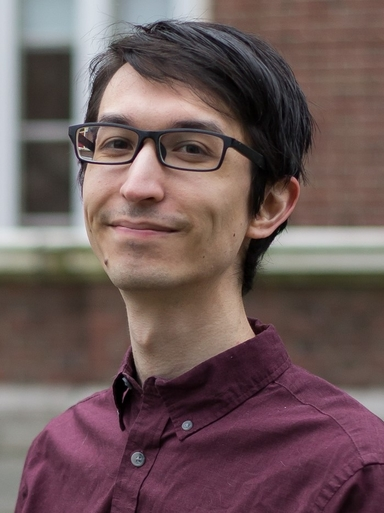
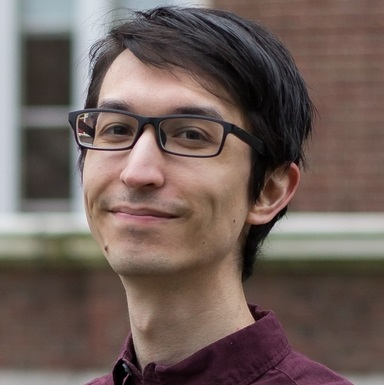
Build (11cfea1): square-ify + tidy-ify
Making everything square and adding in pictures!

diff --git a/people.html b/people.html
@@ -1,1 +1,1 @@
-<!doctype html><html class="no-js" lang="en" data-theme="dark"><head><meta charset="utf-8"/><meta http-equiv="x-ua-compatible" content="ie=edge"/><meta name="viewport" content="width=device-width,initial-scale=1"/><title>Astrostat@UofT | People</title><base href="/"><link href="/assets/index.css" rel="stylesheet"></head><body><a href="#body" class="show-for-sr">Skip to main content</a><div id="topper"><svg id="topper-gradient" width="100%" height="100%" xmlns="http://www.w3.org/2000/svg" aria-hidden="true"><defs><pattern id="patt" width="4" height="4" patternUnits="userSpaceOnUse"><rect x="0" y="0" width="4" height="2" fill="#aaaaaa"></rect><rect x="0" y="4" width="4" height="2" fill="#555555"></rect></pattern><linearGradient id="color-gradient"><stop id="topper-gradient-stop-1" offset="0%" stop-opacity="100%"></stop><stop id="topper-gradient-stop-2" offset="25%" stop-opacity="100%"></stop><stop id="topper-gradient-stop-3" offset="100%" stop-opacity="100%"></stop></linearGradient><linearGradient id="horizontal-gradient"><stop offset="0%" stop-color="#000000"></stop><stop offset="5%" stop-color="#ffffff"></stop><stop offset="95%" stop-color="#ffffff"></stop><stop offset="100%" stop-color="#000000"></stop></linearGradient><linearGradient id="vertical-gradient" gradientTransform="rotate(90)"><stop offset="0%" stop-color="#000000"></stop><stop offset="5%" stop-color="#ffffff"></stop><stop offset="95%" stop-color="#ffffff"></stop><stop offset="100%" stop-color="#000000"></stop></linearGradient><mask id="stripes"><rect x="0" y="0" width="100%" height="100%" fill="url(#patt)"></rect></mask><mask id="horizontal-fade"><rect x="0" y="0" width="100%" height="100%" fill="url(#horizontal-gradient)"></rect></mask><mask id="vertical-fade"><rect x="0" y="0" width="100%" height="100%" fill="url(#vertical-gradient)"></rect></mask></defs><rect fill="url(#color-gradient)" width="100%" height="100%" mask="url(#vertical-fade) intersect, url(#horizontal-fade) intersect, url(#stripes)"></rect></svg> <svg id="topper-text" viewBox="0 0 1200 300" preserveAspectRatio="xMaxYMin meet" xmlns="http://www.w3.org/2000/svg" role="banner"><text class="h1" x="50%" y="40%" dominant-baseline="bottom" text-anchor="middle">Astrostat@UofT</text><text class="h2" x="50%" y="65%" dominant-baseline="bottom" text-anchor="middle">Astrostatistics Research Team</text><text class="h3" x="50%" y="85%" dominant-baseline="bottom" text-anchor="middle">University of Toronto</text></svg></div><div class="grid-container"><div class="grid-x grid-margin-x"><div id="sidebar" class="cell medium-2"><div class="sticky" data-sticky data-top-anchor="topper:bottom"><div id="nav"><label for="nav-drilldown">Navigate</label><ul id="nav-drilldown" class="vertical menu drilldown" data-drilldown data-auto-height="true" data-back-button="&lt;li class&#x3D;&quot;js-drilldown-back&quot;&gt;&lt;a tabindex&#x3D;&quot;0&quot;&gt;&lt;i&gt;(back)&lt;/i&gt;&lt;/a&gt;&lt;/li&gt;"><li><a href="/">Home</a></li><li><a href="/people.html">People</a></li><li><a href="/research.html">Research</a></li></ul></div><ul id="controls"><li><label id="dark-mode-label" for="dark-mode-switch">Dark mode</label><div class="switch" id="dark-mode-control"><input class="switch-input" id="dark-mode-switch" aria-labelledby="dark-mode-label" type="checkbox"> <label class="switch-paddle" for="dark-mode-switch"></label></div></li></ul></div></div><div class="cell medium-10 grid-x"><div class="cell small-12"><div id="breadcrumbs-wrapper" class="sticky" data-sticky data-top-anchor="topper:bottom" data-margin-top="0" data-margin-bottom="0"><ul class="breadcrumbs"><li><a href="/">Home</a></li><li><span class="show-for-sr">Current: </span>People</li></ul></div></div><div id="body"><section class="small-12"><h1>People</h1><p>The ART is made up of researchers across astrophysics, statistics, and computer science spanning a wide range of career stages. More information about individual members of the group can be found below.</p><br><h2>Faculty</h2><div class="grid-x grid-margin-x small-up-1 medium-up-2"><div class="cell"><div class="card"><img class="person-thumbnail" src="/static/GwendolynEadie_2018.jpg" alt="A picture of Gwendolyn Eadie."><div class="card-section"><span class="h3">Gwendolyn Eadie</span><p>Gwen is an Assistant Professor of Astrostatistics, jointly appointed between the David A. Dunlap Department of Astronomy & Astrophysics (51%) and the Department of Statistical Sciences (49%). Her research interests includes hierarchical Bayesian inference, generalized linear models, spatial point processes, and time series analysis for the study of the Milky Way Galaxy, ultra-diffuse galaxies, star clusters and globular clusters, stars and stellar flares, and fast radio bursts. <a href="https://gweneadie.com/">Personal Website</a></p></div></div></div><div class="cell"><div class="card"><img class="person-thumbnail" src="/static/NSERC_Speagle_Joshua_thumbnail.jpg" alt="A picture of Joshua Speagle."><div class="card-section"><span class="h3">Joshua S. Speagle (沈佳士)</span><p>Josh is an Assistant Professor of Astrostatistics, jointly appointed between the Department of Statistical Sciences (51%) and the David A. Dunlap Department of Astronomy & Astrophysics (49%). His work focuses on using a combination of astronomy, statistics, data science, and AI to analze massive datasets containing billions of stars and galaxies to understand how galaxies like our own Milky Way form, behave, and evolve over time. <a href="https://joshspeagle.com/">Personal Website</a></p></div></div></div></div><br><h2>Postdoctoral Researchers</h2><div class="grid-x grid-margin-x small-up-1 medium-up-2"><div class="cell"><div class="card"><img class="person-thumbnail"/><div class="card-section"><span class="h3">Antonio Herrera Martin</span><p>Bio here...</p></div></div></div><div class="cell"><div class="card"><img class="person-thumbnail"/><div class="card-section"><span class="h3">Jacqueline Antwi-Danso</span><p>Bio here...</p></div></div></div><div class="cell"><div class="card"><img class="person-thumbnail"/><div class="card-section"><span class="h3">Michael Walmsley</span><p>Bio here...</p></div></div></div><div class="cell"><div class="card"><img class="person-thumbnail"/><div class="card-section"><span class="h3">Tanveer Karim</span><p>Tanveer Karim is an Arts & Sciences Postdoctoral Fellow at the University of Toronto and a member of the Dark Energy Spectroscopic Instrument (DESI) collaboration and the Dark Energy Science Collaboration (DESC). His current research interest is developing frameworks to constrain cosmological models by cross-correlating multiple surveys and improving interpretability of the constraints to address various cosmological tensions. Previously, he has also extensively worked on target selection of emission-line galaxies for DESI, mitigation of observational systematics, as well as projects pertaining to the Milky Way and analysis of stellar rotation periods. Outside of research, Tanveer loves to learn languages, play board games and read books. <a href="https://tanveerkarim.com/">Personal Website</a></p></div></div></div><div class="cell"><div class="card"><img class="person-thumbnail"/><div class="card-section"><span class="h3">Kevin McKinnon</span><p>Kevin is a CITA Postdoctoral Researcher whose research focuses predominantly on understanding how the Milky Way formed and evolved through Galactic Archeology. On the dynamics side, he is currently using hierarchical Bayesian models to combine archival Hubble Space Telescope images with Gaia data to measure significantly improved astrometry, particularly for faint stars. For stellar parameters and chemistry, Kevin is working with the Sloan Digital Sky Survey V (SDSS-V) to help improve the APOGEE spectral reduction and abundance pipelines for the Milky Way Mapper program.</p></div></div></div></div><br><h2>Graduate Students</h2><div class="grid-x grid-margin-x small-up-1 medium-up-2"><div class="cell"><div class="card"><img class="person-thumbnail"/><div class="card-section"><span class="h3">Amanda Cook</span><p>Amanda is a Ph.D. candidate in Astronomy and Astrophysics at the University of Toronto, supervised by Profs. Bryan Gaensler, Gwen Eadie, and Paul Scholz, and she is a member of the CHIME/FRB Collaboration. Amanda develops and employs statistical methods to solve astrophysics problems related to fast radio bursts, high-energy astrophysics, and circumgalactic media. Prior to entering graduate school, she received an honors mathematics and physics degree from McGill University, and held a variety of summer research positions including at NASA JPL and the University of Kyoto. <a href="https://www.astro.utoronto.ca/~cook/">Personal Website</a></p></div></div></div><div class="cell"><div class="card"><img class="person-thumbnail"/><div class="card-section"><span class="h3">David Li</span><p>Bio here...</p></div></div></div><div class="cell"><div class="card"><img class="person-thumbnail"/><div class="card-section"><span class="h3">Sam Berek</span><p>Bio here...</p></div></div></div><div class="cell"><div class="card"><img class="person-thumbnail"/><div class="card-section"><span class="h3">Mairead Heiger</span><p>Bio here...</p></div></div></div><div class="cell"><div class="card"><img class="person-thumbnail"/><div class="card-section"><span class="h3">Anika Slizewski</span><p>Anika is a second-year graduate student at the University of Toronto who works with Gwen Eadie on improving statistical methods of estimating masses of astronomical systems. They are interested in uncertainty analysis and have done work with outlier detection and dimensionality reduction of multiwavelength image data. Anika’s long-term goal is to develop a consistent and accurate way to combine data from multiple types of populations to estimate properties of the Galaxy.</p></div></div></div><div class="cell"><div class="card"><img class="person-thumbnail"/><div class="card-section"><span class="h3">Alex Laroche</span><p>Alex is a second year graduate student in the David A. Dunlap Department of Astronomy & Astrophysics co-supervised by Josh Speagle and Maria Drout. His research focuses on a combination of machine learning and stellar evolution. Specifically, he develops data-driven models to discover 'needles in a haystack': new, rare stellar populations in large-scale surveys. Subsequently, he attempts to understand the nature of these rare populations through a combination of follow-up observations and stellar evolution models. On the machine learning side, he has developed a purely data-driven model for low-resolution Gaia BP/RP spectra based on variational-autoencoders. On the stellar evolution side, he is focused on binary-stripped helium stars and carbon-enhanced metal poor stars. <a href="https://alexlaroche7.github.io/">Personal Website</a></p></div></div></div><div class="cell"><div class="card"><img class="person-thumbnail"/><div class="card-section"><span class="h3">Phil Van-Lane</span><p>Phil is a 2nd year PhD student in Astronomy & Astrophysics co-supervised by Drs. Eadie and Speagle, and Dr. Ryan Cloutier from McMaster University. His research focuses on leveraging machine learning and statistical methods to develop stellar dating methods using rotation and magnetic activity data, with a focus on M dwarfs. His long-term goal is to build a catalogue of M dwarf ages, and use these constraints to inform exoplanet evolutionary analyses. He previously completed his BSc at University of Waterloo in Earth Sciences with a Geophysics specialization, then worked in engineering consulting, software development, data engineering, and product management roles for several years before beginning his PhD in Fall 2022.</p></div></div></div><div class="cell"><div class="card"><img class="person-thumbnail"/><div class="card-section"><span class="h3">Maggie Zhai</span><p>Maggie is a first-year PhD student in the Department of Statistical Sciences is co-advised by Professors Gwendolyn Eadie and Joshua Speagle. Her research broadly focuses on citizen science projects to determine how to improve classification accuracy through volunteer user input, and is interested in using these methods to improve image classification accuracy within Galaxy Zoo. Prior to UofT, she completed her MS in Statistics from San Diego State University and BS in Mathematics from UC San Diego.</p></div></div></div><div class="cell"><div class="card"><img class="person-thumbnail"/><div class="card-section"><span class="h3">Rodrigo Barradas Herrera</span><p>Bio here...</p></div></div></div></div><br><h2>ART Associates</h2><div class="grid-x grid-margin-x small-up-1 medium-up-2"><div class="cell"><div class="card"><img class="person-thumbnail"/><div class="card-section"><span class="h3">Lerato Sebokolodi</span><p>Bio here...</p></div></div></div><div class="cell"><div class="card"><img class="person-thumbnail"/><div class="card-section"><span class="h3">Huanqing Chen</span><p>Bio here...</p></div></div></div><div class="cell"><div class="card"><img class="person-thumbnail"/><div class="card-section"><span class="h3">Marta Reina-Campos</span><p>Bio here...</p></div></div></div><div class="cell"><div class="card"><img class="person-thumbnail"/><div class="card-section"><span class="h3">Ioana Zelko</span><p>Bio here...</p></div></div></div><div class="cell"><div class="card"><img class="person-thumbnail"/><div class="card-section"><span class="h3">Claire Ye</span><p>Bio here...</p></div></div></div><div class="cell"><div class="card"><img class="person-thumbnail"/><div class="card-section"><span class="h3">Steffani Grondin</span><p>Bio here...</p></div></div></div><div class="cell"><div class="card"><img class="person-thumbnail"/><div class="card-section"><span class="h3">Alicia Savelli</span><p>Bio here...</p></div></div></div></div><br><h2>Additional Members</h2><ul><li>Yihan (Christine) Wang</li><li>Qianyu (Rita) Fan</li><li>Matt Kustec</li><li>Max Zabrodski</li><li>Hannah Guo</li><li>Belle Pensamiento</li></ul><h2>Alumni</h2><div class="grid-x grid-margin-x small-up-1 medium-up-2"><div class="cell"><div class="card"><img class="person-thumbnail"/><div class="card-section"><span class="h3">Aarya Patil</span><p>Bio here...</p></div></div></div></div></section></div></div></div></div><script defer="defer" src="/assets/index.bundle.js"></script></body></html>
+<!doctype html><html class="no-js" lang="en" data-theme="dark"><head><meta charset="utf-8"/><meta http-equiv="x-ua-compatible" content="ie=edge"/><meta name="viewport" content="width=device-width,initial-scale=1"/><title>Astrostat@UofT | People</title><base href="/"><link href="/assets/index.css" rel="stylesheet"></head><body><a href="#body" class="show-for-sr">Skip to main content</a><div id="topper"><svg id="topper-gradient" width="100%" height="100%" xmlns="http://www.w3.org/2000/svg" aria-hidden="true"><defs><pattern id="patt" width="4" height="4" patternUnits="userSpaceOnUse"><rect x="0" y="0" width="4" height="2" fill="#aaaaaa"></rect><rect x="0" y="4" width="4" height="2" fill="#555555"></rect></pattern><linearGradient id="color-gradient"><stop id="topper-gradient-stop-1" offset="0%" stop-opacity="100%"></stop><stop id="topper-gradient-stop-2" offset="25%" stop-opacity="100%"></stop><stop id="topper-gradient-stop-3" offset="100%" stop-opacity="100%"></stop></linearGradient><linearGradient id="horizontal-gradient"><stop offset="0%" stop-color="#000000"></stop><stop offset="5%" stop-color="#ffffff"></stop><stop offset="95%" stop-color="#ffffff"></stop><stop offset="100%" stop-color="#000000"></stop></linearGradient><linearGradient id="vertical-gradient" gradientTransform="rotate(90)"><stop offset="0%" stop-color="#000000"></stop><stop offset="5%" stop-color="#ffffff"></stop><stop offset="95%" stop-color="#ffffff"></stop><stop offset="100%" stop-color="#000000"></stop></linearGradient><mask id="stripes"><rect x="0" y="0" width="100%" height="100%" fill="url(#patt)"></rect></mask><mask id="horizontal-fade"><rect x="0" y="0" width="100%" height="100%" fill="url(#horizontal-gradient)"></rect></mask><mask id="vertical-fade"><rect x="0" y="0" width="100%" height="100%" fill="url(#vertical-gradient)"></rect></mask></defs><rect fill="url(#color-gradient)" width="100%" height="100%" mask="url(#vertical-fade) intersect, url(#horizontal-fade) intersect, url(#stripes)"></rect></svg> <svg id="topper-text" viewBox="0 0 1200 300" preserveAspectRatio="xMaxYMin meet" xmlns="http://www.w3.org/2000/svg" role="banner"><text class="h1" x="50%" y="40%" dominant-baseline="bottom" text-anchor="middle">Astrostat@UofT</text><text class="h2" x="50%" y="65%" dominant-baseline="bottom" text-anchor="middle">Astrostatistics Research Team</text><text class="h3" x="50%" y="85%" dominant-baseline="bottom" text-anchor="middle">University of Toronto</text></svg></div><div class="grid-container"><div class="grid-x grid-margin-x"><div id="sidebar" class="cell medium-2"><div class="sticky" data-sticky data-top-anchor="topper:bottom"><div id="nav"><label for="nav-drilldown">Navigate</label><ul id="nav-drilldown" class="vertical menu drilldown" data-drilldown data-auto-height="true" data-back-button="&lt;li class&#x3D;&quot;js-drilldown-back&quot;&gt;&lt;a tabindex&#x3D;&quot;0&quot;&gt;&lt;i&gt;(back)&lt;/i&gt;&lt;/a&gt;&lt;/li&gt;"><li><a href="/">Home</a></li><li><a href="/people.html">People</a></li><li><a href="/research.html">Research</a></li></ul></div><ul id="controls"><li><label id="dark-mode-label" for="dark-mode-switch">Dark mode</label><div class="switch" id="dark-mode-control"><input class="switch-input" id="dark-mode-switch" aria-labelledby="dark-mode-label" type="checkbox"> <label class="switch-paddle" for="dark-mode-switch"></label></div></li></ul></div></div><div class="cell medium-10 grid-x"><div class="cell small-12"><div id="breadcrumbs-wrapper" class="sticky" data-sticky data-top-anchor="topper:bottom" data-margin-top="0" data-margin-bottom="0"><ul class="breadcrumbs"><li><a href="/">Home</a></li><li><span class="show-for-sr">Current: </span>People</li></ul></div></div><div id="body"><section class="small-12"><h1>People</h1><p>The ART is made up of researchers across astrophysics, statistics, and data science spanning a wide range of career stages. More information about individual members of the group can be found below.</p><br><h2>Faculty</h2><div class="grid-x grid-margin-x small-up-1 medium-up-2"><div class="cell"><div class="card"><img class="person-thumbnail" src="/static/GwendolynEadie_2018.jpg" alt="A picture of Gwendolyn Eadie."><div class="card-section"><span class="h3">Gwendolyn Eadie</span><p>Gwen is an Assistant Professor of Astrostatistics, jointly appointed between the <a href="https://www.astro.utoronto.ca/">David A. Dunlap Department of Astronomy & Astrophysics</a> (51%) and the <a href="https://www.statistics.utoronto.ca/">Department of Statistical Sciences</a> (49%). Her research interests includes hierarchical Bayesian inference, generalized linear models, spatial point processes, and time series analysis for the study of the Milky Way Galaxy, ultra-diffuse galaxies, star clusters and globular clusters, stars and stellar flares, and fast radio bursts. <a href="https://gweneadie.com/">Personal Website</a></p></div></div></div><div class="cell"><div class="card"><img class="person-thumbnail" src="/static/NSERC_Speagle_Joshua_thumbnail.jpg" alt="A picture of Joshua Speagle."><div class="card-section"><span class="h3">Joshua S. Speagle (沈佳士)</span><p>Josh is an Assistant Professor of Astrostatistics, jointly appointed between the Department of Statistical Sciences (51%) and the David A. Dunlap Department of Astronomy & Astrophysics (49%). His work focuses on using a combination of astronomy, statistics, data science, and artificial intelligence (AI) to analze massive datasets containing billions of stars and galaxies to understand how galaxies like our own Milky Way (and the stars within it) form, behave, and evolve over time. <a href="https://joshspeagle.com/">Personal Website</a></p></div></div></div></div><br><h2>Postdoctoral Researchers</h2><div class="grid-x grid-margin-x small-up-1 medium-up-2"><div class="cell"><div class="card"><img class="person-thumbnail" src="/static/TonyH.jpg" alt="A picture of Antonio Herrera Martin."><div class="card-section"><span class="h3">Antonio Herrera Martin</span><p>Antonio (Tony) is a postdoctoral fellow in the Department of Statistical Sciences. He works in the ART as part of a <a href="https://canssi.ca/">Canadian Statistical Sciences Institute (CANSSI)</a> Collaborative Research Team led by Professor Gwendolyn Eadie, as well as in the <a href="https://chime-experiment.ca/en">Canadian Hydrogen Intensity Mapping Experiment (CHIME)</a>, which studies fast radio bursts. His primary research interest is in the study of data analysis methods for astrophysical data. Throughout his career, Antonio has researched a wide range of topics in physics and astronomy, including the evolution of the Universe, dark matter via gravitational lensing, the inference of parameters for gravitational waves, and the search of extrasolar planets using microlensing data. He received his PhD in Physics and Astronomy from the University of Glasgow. Outside of work, he enjoys practicing pixel art, software development, and dancing. <a href="https://alfa33333.github.io/">Personal Website</a></p></div></div></div><div class="cell"><div class="card"><img class="person-thumbnail"/><div class="card-section"><span class="h3">Jacqueline Antwi-Danso</span><p>Bio here...</p></div></div></div><div class="cell"><div class="card"><img class="person-thumbnail"/><div class="card-section"><span class="h3">Michael Walmsley</span><p>Bio here...</p></div></div></div><div class="cell"><div class="card"><img class="person-thumbnail"/><div class="card-section"><span class="h3">Tanveer Karim</span><p>Tanveer is an Arts & Sciences Postdoctoral Fellow at the David A. Dunlap Department of Astronomy & Astrophysics and a member of the <a href="https://www.desi.lbl.gov/">Dark Energy Spectroscopic Instrument (DESI)</a> collaboration and the <a href="https://lsstdesc.org/">Dark Energy Science Collaboration (DESC)</a>. His current research interests include developing frameworks to constrain cosmological models by cross-correlating multiple surveys and improving interpretability of the constraints to address various cosmological tensions. Previously, he has also extensively worked on target selection of emission-line galaxies for DESI, mitigation of observational systematics, as well as projects pertaining to the Milky Way and analysis of stellar rotation periods. Outside of research, Tanveer loves to learn languages, play board games, and read books. <a href="https://tanveerkarim.com/">Personal Website</a></p></div></div></div><div class="cell"><div class="card"><img class="person-thumbnail" src="/static/KevinMcK_headshot.jpg" alt="A picture of Kevin McKinnon."><div class="card-section"><span class="h3">Kevin McKinnon</span><p>Kevin is a <a href="https://www.cita.utoronto.ca/">Canadian Institute for Theoretical Astrophysics (CITA)</a> Postdoctoral Researcher whose research focuses predominantly on understanding how the Milky Way formed and evolved through Galactic Archeology. On the dynamics side, he is currently using hierarchical Bayesian models to combine archival <a href="https://hubblesite.org/home">Hubble Space Telescope</a> images with <a href="https://www.esa.int/Science_Exploration/Space_Science/Gaia">Gaia</a> data to measure significantly improved astrometry, particularly for faint stars. For stellar parameters and chemistry, Kevin is working with the <a href="https://www.sdss.org/">Sloan Digital Sky Survey V (SDSS-V)</a> to help improve the <a href="https://www.sdss.org/instruments/apogee-spectrographs/">APOGEE</a> spectral reduction and abundance pipelines for the Milky Way Mapper program. <a href="https://www.kevinmckinnon.com/">Personal Website</a></p></div></div></div></div><br><h2>Graduate Students</h2><div class="grid-x grid-margin-x small-up-1 medium-up-2"><div class="cell"><div class="card"><img class="person-thumbnail" src="/static/AmandaCook_Profile.png" alt="A picture of Amanda Cook."><div class="card-section"><span class="h3">Amanda Cook</span><p>Amanda is a Ph.D. candidate in the David A. Dunlap Department of Astronomy & Astrophysics supervised by Profs. <a href="https://bryangaensler.net/">Bryan Gaensler</a> (UCSC), Gwen Eadie, and <a href="https://www.yorku.ca/science/profiles/faculty/paul-scholz/">Paul Scholz</a> (York University). She is also a member of the CHIME/FRB Collaboration. Amanda develops and employs statistical methods to solve astrophysics problems related to fast radio bursts, high-energy astrophysics, and circumgalactic media. Prior to entering graduate school, she received an honors mathematics and physics degree from McGill University, and held a variety of summer research positions including at NASA JPL and the University of Kyoto. <a href="https://www.astro.utoronto.ca/~cook/">Personal Website</a></p></div></div></div><div class="cell"><div class="card"><img class="person-thumbnail"/><div class="card-section"><span class="h3">David Li</span><p>Bio here...</p></div></div></div><div class="cell"><div class="card"><img class="person-thumbnail"/><div class="card-section"><span class="h3">Sam Berek</span><p>Bio here...</p></div></div></div><div class="cell"><div class="card"><img class="person-thumbnail"/><div class="card-section"><span class="h3">Mairead Heiger</span><p>Bio here...</p></div></div></div><div class="cell"><div class="card"><img class="person-thumbnail" src="/static/slizewski.jpg" alt="A picture of Anika Slizewski."><div class="card-section"><span class="h3">Anika Slizewski</span><p>Anika is a second-year graduate student at the David A. Dunlap Department of Astronomy & Astrophysics who works with Gwen Eadie on improving statistical methods of estimating masses of astronomical systems. They are interested in uncertainty analysis and have done work with outlier detection and dimensionality reduction of multiwavelength image data. Anika’s long-term goal is to develop a consistent and accurate way to combine data from multiple types of populations to estimate properties of the Galaxy.</p></div></div></div><div class="cell"><div class="card"><img class="person-thumbnail" src="/static/Alex_Headshot.png" alt="A picture of Alex Laroche."><div class="card-section"><span class="h3">Alex Laroche</span><p>Alex is a second year graduate student in the David A. Dunlap Department of Astronomy & Astrophysics co-supervised by Josh Speagle and <a href="https://www.astro.utoronto.ca/~drout/">Maria Drout</a>. His research focuses on a combination of machine learning and stellar evolution. Specifically, he develops data-driven models to discover 'needles in a haystack': new, rare stellar populations in large-scale surveys. Subsequently, he attempts to understand the nature of these rare populations through a combination of follow-up observations and stellar evolution models. On the machine learning side, he has developed a purely data-driven model for low-resolution Gaia BP/RP spectra based on variational-autoencoders. On the stellar evolution side, he is focused on binary-stripped helium stars and carbon-enhanced metal poor stars. <a href="https://alexlaroche7.github.io/">Personal Website</a></p></div></div></div><div class="cell"><div class="card"><img class="person-thumbnail" src="/static/Phil_Headshot.png" alt="A picture of Phil Van-Lane."><div class="card-section"><span class="h3">Phil Van-Lane</span><p>Phil is a 2nd year PhD student in the David A. Dunlap Department of Astronomy & Astrophysics co-supervised by Drs. Eadie and Speagle and Dr. <a href="https://r-cloutier.github.io/">Ryan Cloutier</a> (McMaster). His research focuses on leveraging machine learning and statistical methods to develop stellar dating methods using rotation and magnetic activity data, with a focus on low-mass stars known as M dwarfs. His long-term goal is to build a catalogue of M dwarf ages and use these constraints to inform exoplanet evolutionary analyses. He previously completed his BSc at University of Waterloo in Earth Sciences with a Geophysics specialization, then worked in engineering consulting, software development, data engineering, and product management roles for several years before beginning his PhD in Fall 2022.</p></div></div></div><div class="cell"><div class="card"><img class="person-thumbnail" src="/static/Maggie_Zhai_headshot.png" alt="A picture of Maggie Zhai."><div class="card-section"><span class="h3">Maggie Zhai</span><p>Maggie is a first-year PhD student in the Department of Statistical Sciences co-advised by Professors Gwendolyn Eadie and Joshua Speagle. Her research broadly focuses on citizen science projects to determine how to improve classification accuracy through volunteer user input, and is interested in using these methods to improve image classification accuracy within <a href="https://www.zooniverse.org/projects/zookeeper/galaxy-zoo/">Galaxy Zoo</a>. Prior to joining the University of Toronto, she completed her MS in Statistics from San Diego State University and BS in Mathematics from UC San Diego.</p></div></div></div><div class="cell"><div class="card"><img class="person-thumbnail"/><div class="card-section"><span class="h3">Rodrigo Barradas Herrera</span><p>Bio here...</p></div></div></div></div><br><h2>ART Associates</h2><div class="grid-x grid-margin-x small-up-1 medium-up-2"><div class="cell"><div class="card"><img class="person-thumbnail"/><div class="card-section"><span class="h3">Lerato Sebokolodi</span><p>Bio here...</p></div></div></div><div class="cell"><div class="card"><img class="person-thumbnail"/><div class="card-section"><span class="h3">Huanqing Chen</span><p>Bio here...</p></div></div></div><div class="cell"><div class="card"><img class="person-thumbnail"/><div class="card-section"><span class="h3">Marta Reina-Campos</span><p>Bio here...</p></div></div></div><div class="cell"><div class="card"><img class="person-thumbnail"/><div class="card-section"><span class="h3">Ioana Zelko</span><p>Bio here...</p></div></div></div><div class="cell"><div class="card"><img class="person-thumbnail"/><div class="card-section"><span class="h3">Claire Ye</span><p>Bio here...</p></div></div></div><div class="cell"><div class="card"><img class="person-thumbnail"/><div class="card-section"><span class="h3">Steffani Grondin</span><p>Bio here...</p></div></div></div><div class="cell"><div class="card"><img class="person-thumbnail"/><div class="card-section"><span class="h3">Alicia Savelli</span><p>Bio here...</p></div></div></div></div><br><h2>Additional Members</h2><ul><li>Yihan (Christine) Wang</li><li>Qianyu (Rita) Fan</li><li>Matthew Kustec</li><li>Max Zabrodski</li><li>Hannah Guo</li></ul><h2>Recent Alumni</h2><div class="grid-x grid-margin-x small-up-1 medium-up-2"><div class="cell"><div class="card"><img class="person-thumbnail"/><div class="card-section"><span class="h3">Aarya Patil</span><p>Bio here...</p></div></div></div><div class="cell"><div class="card"><img class="person-thumbnail" src="/static/olga_st-onge.jpg" alt="A picture of Olga St-Onge."><div class="card-section"><span class="h3">Olga St-Onge</span><p>Olga is a recent graduate with a bachelor’s degree in physics and a minor in mathematics from Florida Atlantic University. Her primary interests are in extragalactic astronomy, cosmology, and relativity. She has experience with observational research into active galaxies & galaxy clusters and computational research into gravitational lensing. She is currently applying to graduate programs and seeking opportunities to participate in astrophysical research.</p></div></div></div></div></section></div></div></div></div><script defer="defer" src="/assets/index.bundle.js"></script></body></html>
